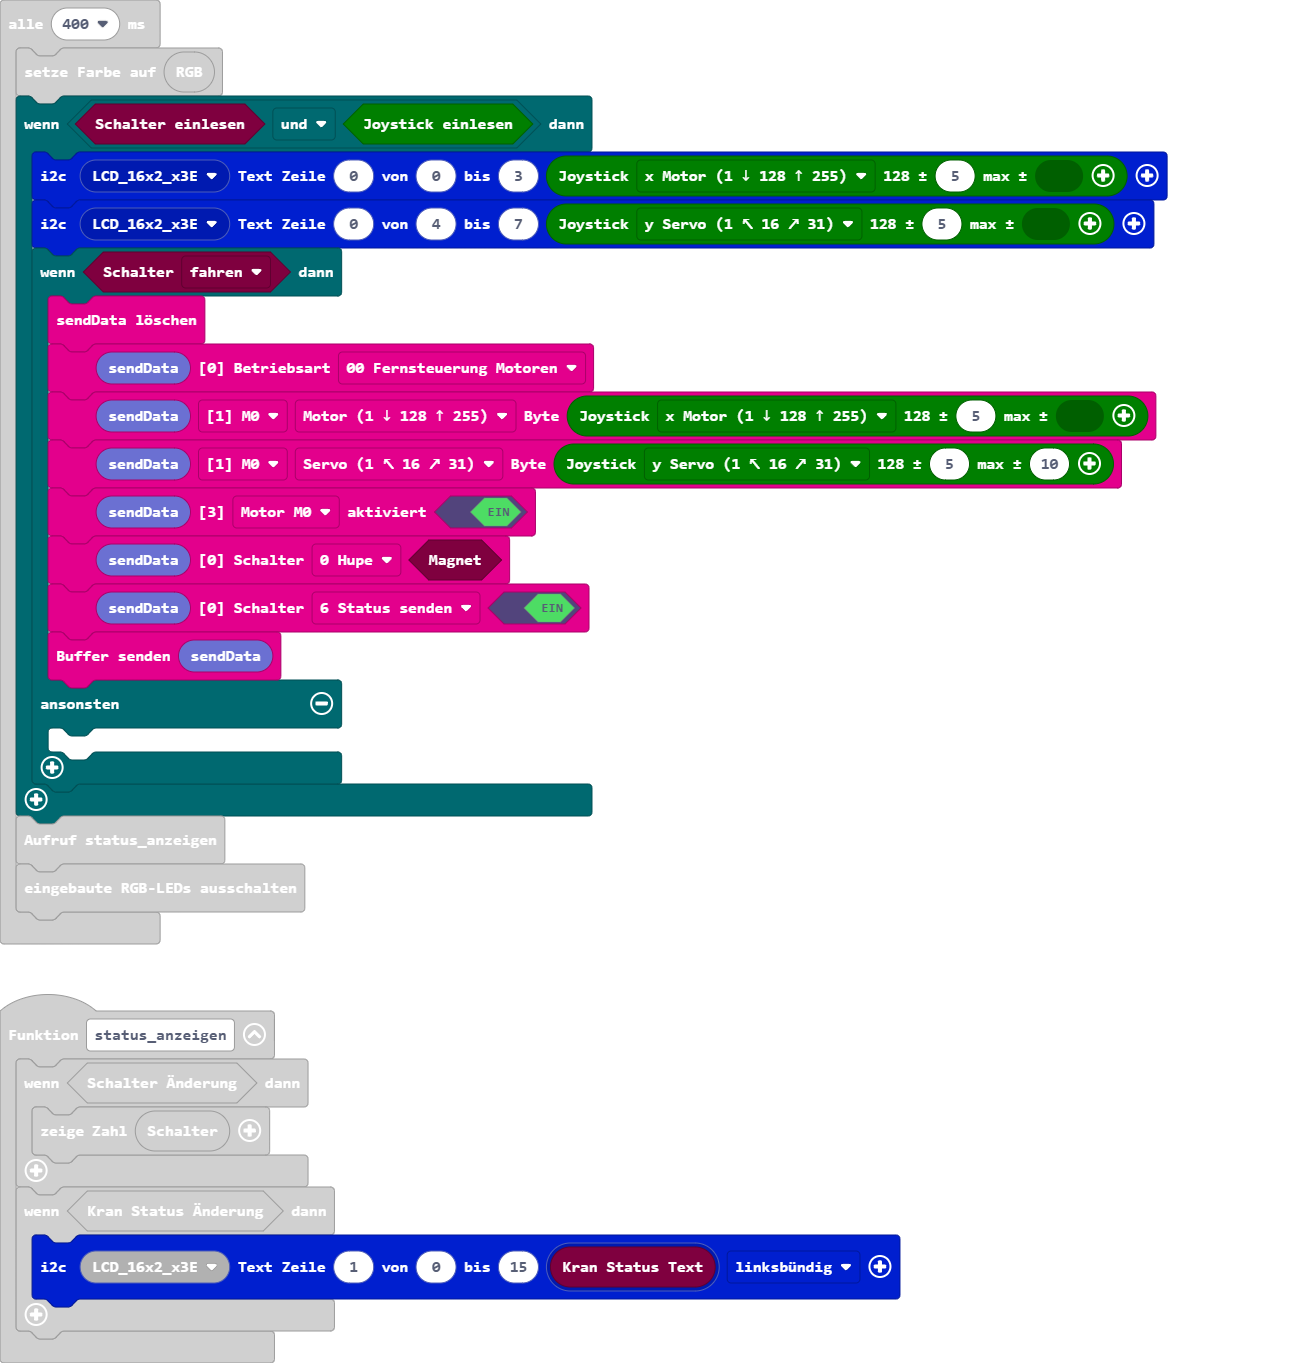
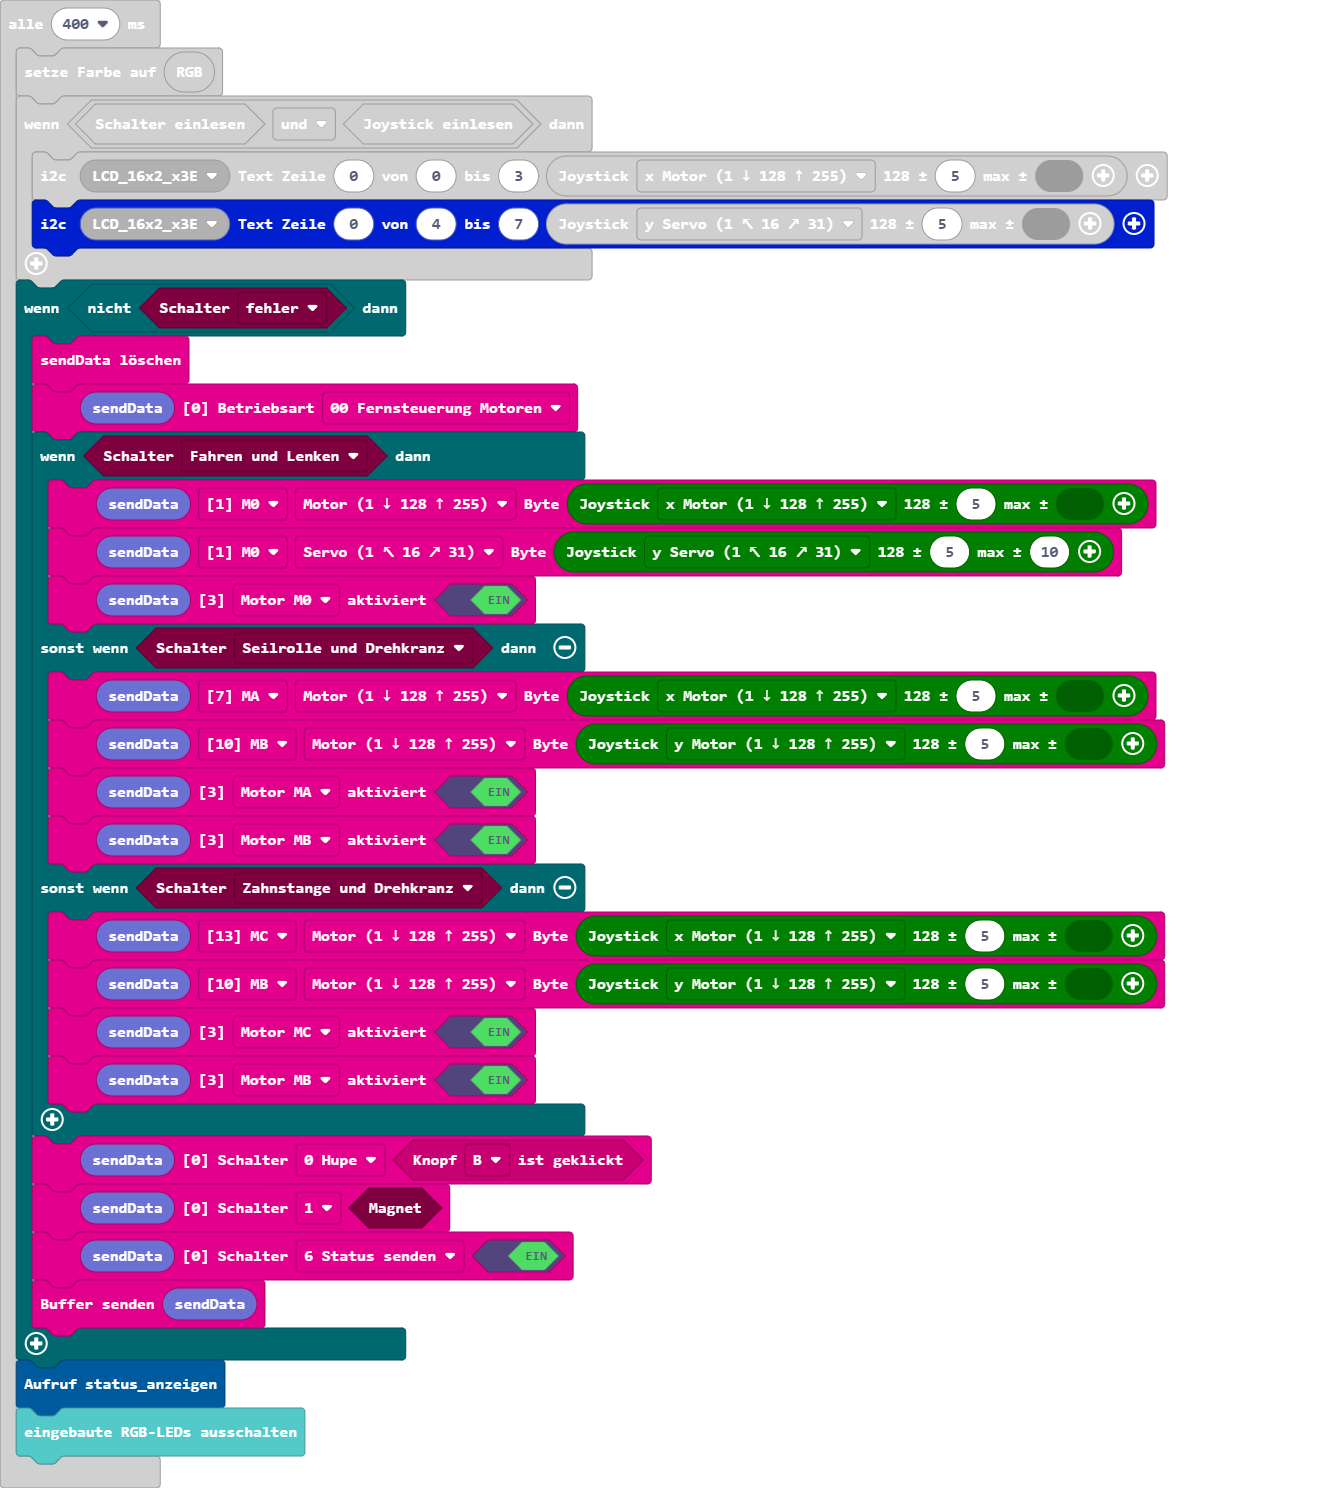
Aktualisiere main.blocks, main.ts, multiswitch.ts

diff --git a/main.ts b/main.ts
@@ -15,18 +15,29 @@ loops.everyInterval(400, function () {
     if (kran.readSwitch() && radio.joystickQwiic()) {
         lcd16x2rgb.writeText(lcd16x2rgb.lcd16x2_eADDR(lcd16x2rgb.eADDR_LCD.LCD_16x2_x3E), 0, 0, 3, radio.joystickValue(radio.eJoystickValue.motor, 5))
         lcd16x2rgb.writeText(lcd16x2rgb.lcd16x2_eADDR(lcd16x2rgb.eADDR_LCD.LCD_16x2_x3E), 0, 4, 7, radio.joystickValue(radio.eJoystickValue.servo16, 5))
+    }
+    if (!(kran.isSwitch(kran.eStatus.fehler))) {
+        radio.fill_sendBuffer19()
+        radio.setBetriebsart(radio.radio_sendBuffer19(), radio.e0Betriebsart.p0)
         if (kran.isSwitch(kran.eStatus.fahren)) {
-            radio.fill_sendBuffer19()
-            radio.setBetriebsart(radio.radio_sendBuffer19(), radio.e0Betriebsart.p0)
             radio.setByte(radio.radio_sendBuffer19(), radio.eBufferPointer.m0, radio.eBufferOffset.b0_Motor, radio.joystickValue(radio.eJoystickValue.motor, 5))
             radio.setByte(radio.radio_sendBuffer19(), radio.eBufferPointer.m0, radio.eBufferOffset.b1_Servo, radio.joystickValue(radio.eJoystickValue.servo16, 5, 10))
             radio.setaktiviert(radio.radio_sendBuffer19(), radio.e3aktiviert.m0, true)
-            radio.setSchalter(radio.radio_sendBuffer19(), radio.e0Schalter.b0, kran.getMagnet())
-            radio.setSchalter(radio.radio_sendBuffer19(), radio.e0Schalter.b6, true)
-            radio.sendData(radio.radio_sendBuffer19())
-        } else {
-        	
+        } else if (kran.isSwitch(kran.eStatus.drehen)) {
+            radio.setByte(radio.radio_sendBuffer19(), radio.eBufferPointer.ma, radio.eBufferOffset.b0_Motor, radio.joystickValue(radio.eJoystickValue.motor, 5))
+            radio.setByte(radio.radio_sendBuffer19(), radio.eBufferPointer.mb, radio.eBufferOffset.b0_Motor, radio.joystickValue(radio.eJoystickValue.ymotor, 5))
+            radio.setaktiviert(radio.radio_sendBuffer19(), radio.e3aktiviert.ma, true)
+            radio.setaktiviert(radio.radio_sendBuffer19(), radio.e3aktiviert.mb, true)
+        } else if (kran.isSwitch(kran.eStatus.zahnstange)) {
+            radio.setByte(radio.radio_sendBuffer19(), radio.eBufferPointer.mc, radio.eBufferOffset.b0_Motor, radio.joystickValue(radio.eJoystickValue.motor, 5))
+            radio.setByte(radio.radio_sendBuffer19(), radio.eBufferPointer.mb, radio.eBufferOffset.b0_Motor, radio.joystickValue(radio.eJoystickValue.ymotor, 5))
+            radio.setaktiviert(radio.radio_sendBuffer19(), radio.e3aktiviert.mc, true)
+            radio.setaktiviert(radio.radio_sendBuffer19(), radio.e3aktiviert.mb, true)
         }
+        radio.setSchalter(radio.radio_sendBuffer19(), radio.e0Schalter.b0, input.buttonIsPressed(Button.B))
+        radio.setSchalter(radio.radio_sendBuffer19(), radio.e0Schalter.b1, kran.getMagnet())
+        radio.setSchalter(radio.radio_sendBuffer19(), radio.e0Schalter.b6, true)
+        radio.sendData(radio.radio_sendBuffer19())
     }
     status_anzeigen()
     basic.turnRgbLedOff()

diff --git a/multiswitch.ts b/multiswitch.ts
@@ -5,9 +5,12 @@ namespace kran { // multiswitch.ts
     const i2c_CMD_GET_DEV_EVENT = 0x01	// gets device event status
 
     export enum eStatus {
+        //% block="Fahren und Lenken"
         fahren = 5,
+        //% block="Seilrolle und Drehkranz"
         drehen = 1,
-        seil = 3,
+        //% block="Zahnstange und Drehkranz"
+        zahnstange = 3,
         links = 2,
         rechts = 4,
         fehler = 0
